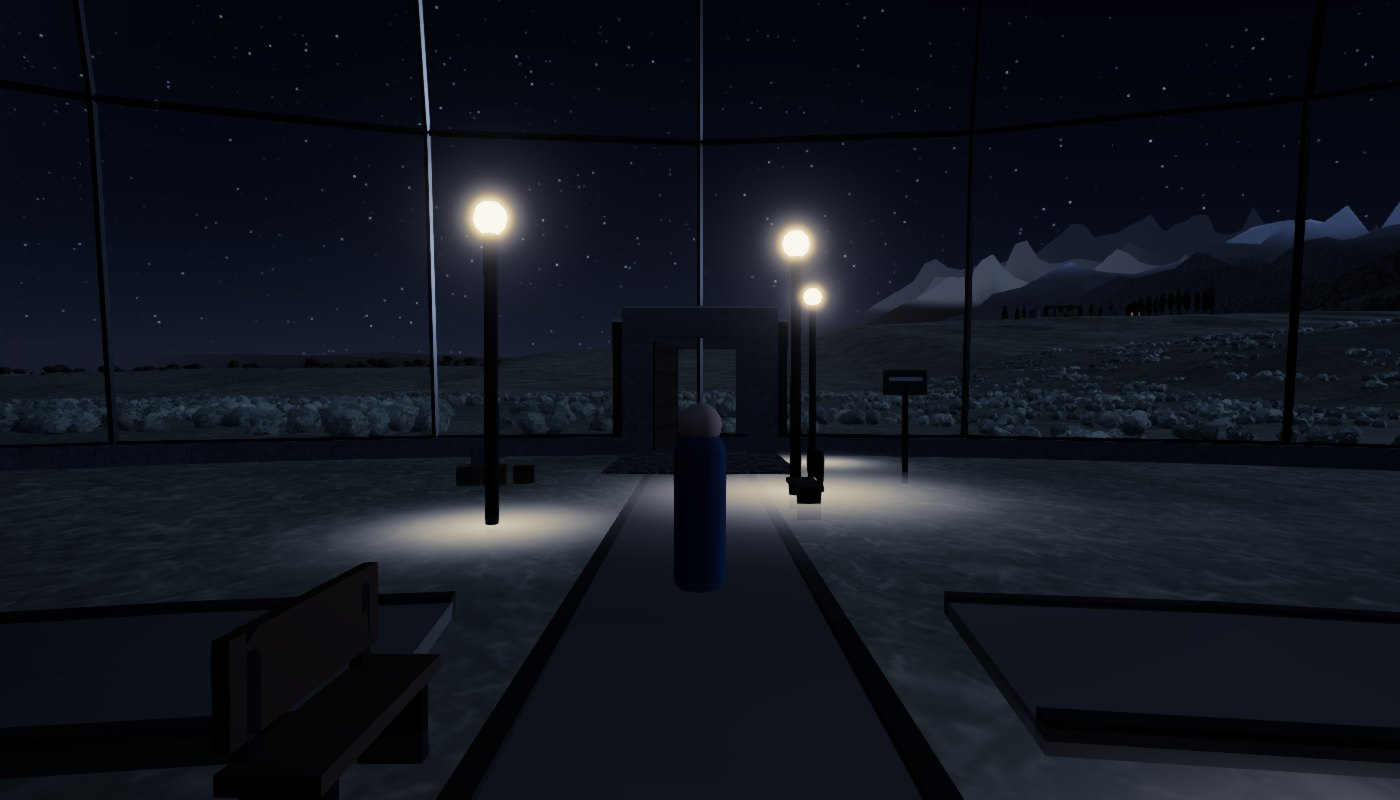
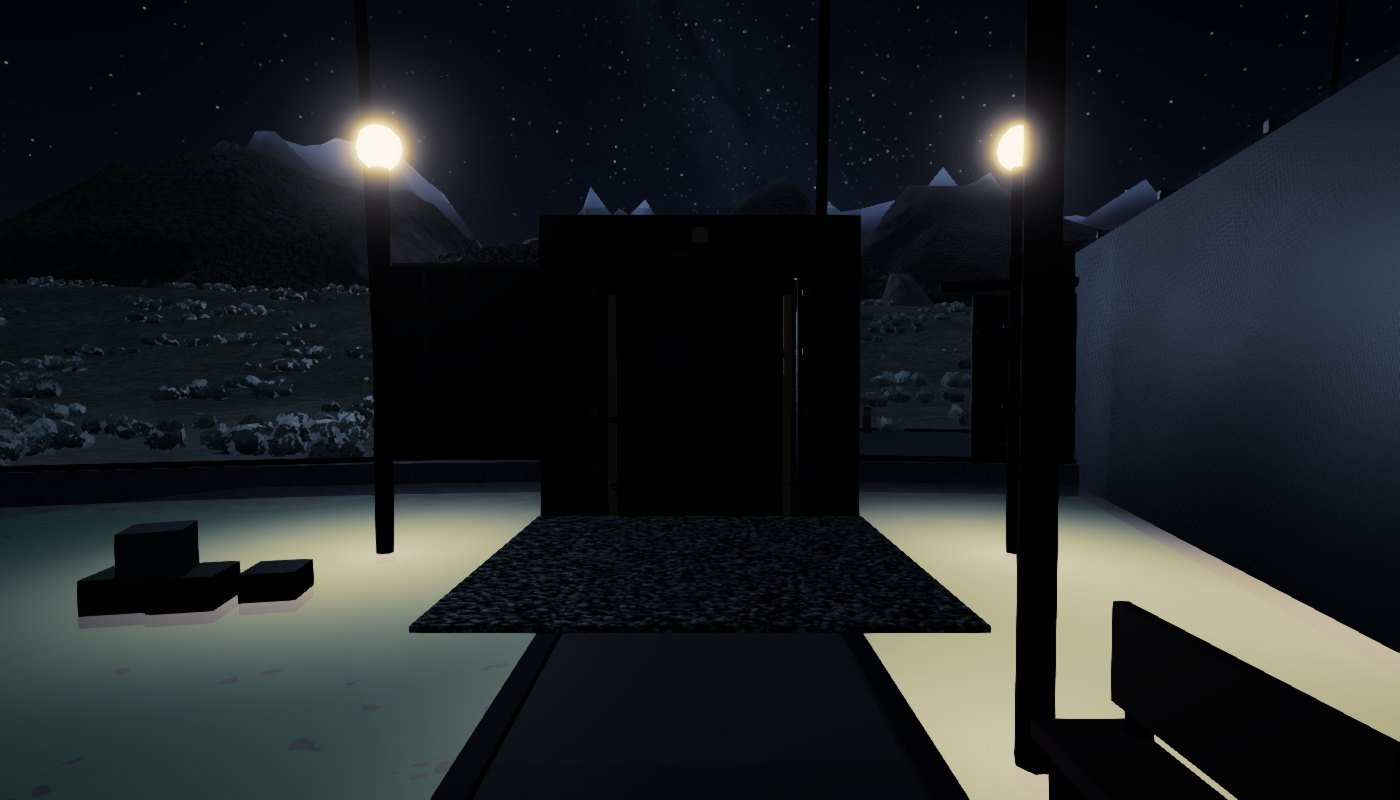
Dome interiors round 3 and 4: fresh frames on current main, lane and plant lighting (#409)
* Interior shots: clear plant sector, vehicle lane and entrance complex shots

* Lamps by lived-in houses and flanking each person airlock door

* vehicle shots off the lamp post

* Plant yard: lamp posts and wider pools in front of the machinery

* porch shot from the lawn

* Dome interiors round 3: fresh frames on current main, REPORT

* Vehicle lane lamps; arcology plant aisle pools

* Dome interiors round 4: final frames, lane lamps, arcology plant aisle lighting, REPORT with perf

---------

diff --git a/src/game/fx/domeInteriorPlan.ts b/src/game/fx/domeInteriorPlan.ts
@@ -27,6 +27,8 @@ export function interiorPlan(tier: string, r: number, angles: readonly number[],
   // a lit house throws its light on the lawn round it: the pool is centered a little toward the middle of the dome, so the lit part lies where the ground shows
   // (centered on the house it hides under the floor; lying at porch height it washes the deck to white)
   for (const o of obstacles) if (o.home) { const m = Math.max(o.hx, o.hz), d = Math.hypot(o.x, o.z) || 1, off = Math.min(d, m + 0.4); out.glows.push({ x: o.x - o.x / d * off, z: o.z - o.z / d * off, r: m * 1.5 + 0.35 }); }
+  // a lamp post by every lived-in house (on the side toward the middle of the dome, where its yard and porch usually lie)
+  for (const o of obstacles) if (o.home) { const m = Math.max(o.hx, o.hz) + 0.3, d = Math.hypot(o.x, o.z) || 1; if (d > m) { const x = o.x - o.x / d * m, z = o.z - o.z / d * m; if (free(x, z, 0.05, 1)) out.lamps.push({ x, z }); } }
   const plazaR = Math.min(0.9, r * 0.11);
   const plazaOk = free(0, 0, plazaR + 0.25, 1);
   if (plazaOk) out.plaza = { x: 0, z: 0, r: plazaR };
@@ -53,6 +55,8 @@ export function interiorPlan(tier: string, r: number, angles: readonly number[],
         if (out.lamps.length < 9 && (b.rho === bs[0].rho || b.rho === bs[2].rho)) out.lamps.push({ x: x + sx * 0.14, z: z + sz * 0.14 });
       }
     }
+    // two lamp posts flank the inner door
+    for (const side of [-1, 1]) { const x = sx * r * 0.86 + px * 0.5 * side, z = sz * r * 0.86 + pz * 0.5 * side; if (free(x, z, 0.05, 0.97)) out.lamps.push({ x, z }); }
     // the door: a crate stack off the lane (a supply drop), a sign on the other side
     const dr = r * 0.82;
     for (const [side, kind] of [[1, 'crate'], [-1, 'sign']] as const) {
@@ -85,6 +89,12 @@ export function interiorPlan(tier: string, r: number, angles: readonly number[],
       const x = sx * (rho - STEP / 2), z = sz * (rho - STEP / 2);
       if (Math.hypot(x, z) >= r * 0.92 || obstacles.some(o => Math.abs(x - o.x) < o.hx + LANE_W / 2 + 0.03 && Math.abs(z - o.z) < o.hz + LANE_W / 2 + 0.03)) break;
       out.segs.push({ x, z, rot: Math.atan2(sx, sz), len: STEP + 0.01, w: LANE_W });
+    }
+    // lamp posts down both sides of the lane, every few steps, so the truck lane reads lit and clean at night
+    const px = Math.cos(a), pz = -Math.sin(a);
+    for (let rho = r * 0.8, k = 0; rho > r1 && k < 6; rho -= STEP * 3, k++) for (const side of [-1, 1]) {
+      const x = sx * rho + px * (LANE_W / 2 + 0.12) * side, z = sz * rho + pz * (LANE_W / 2 + 0.12) * side;
+      if (Math.hypot(x, z) < r * 0.93 && !obstacles.some(o => Math.abs(x - o.x) < o.hx + 0.05 && Math.abs(z - o.z) < o.hz + 0.05)) out.lamps.push({ x, z });
     }
   }
   if (out.plaza) {

diff --git a/src/game/HomesteadWorld.ts b/src/game/HomesteadWorld.ts
@@ -621,7 +621,9 @@ export class HomesteadWorld {
     // the plant's equipment is lit at night: a pool of light round every unit (the yard and gallery read as a working place, not a dark plane)
     { const big = plantLayout(ref.tier, ref.r, filtering, { rot: b.placed.rot }).parts.filter(q => !q.onShell && !q.high && q.shape === 'box' && q.h > 0.12 && Math.max(q.w, q.d) > 0.3 && Math.hypot(q.x, q.z) < ref.r * 1.8).sort((p, q) => Math.max(q.w, q.d) - Math.max(p.w, p.d)).slice(0, 8);
       // (the pool lies on the aisle side of each unit, in front of its doors, where the ground shows)
-      for (const q of big) { const d = Math.hypot(q.x, q.z) || 1, m = Math.max(q.w, q.d), off = m / 2 + 0.5; plan.glows.push({ x: q.x - q.x / d * off, z: q.z - q.z / d * off, r: m * 0.7 + 0.45 }); } }
+      for (const q of big) { const d = Math.hypot(q.x, q.z) || 1, m = Math.max(q.w, q.d), off = m / 2 + 0.5; plan.glows.push({ x: q.x - q.x / d * (off + 0.5), z: q.z - q.z / d * (off + 0.5), r: m * 0.8 + 1.1 }); if (plan.lamps.length < 26) plan.lamps.push({ x: q.x - q.x / d * (off + 0.35), z: q.z - q.z / d * (off + 0.35) }); } }
+    // a big dome's working floor is lit like an airtight plant hall: soft wide pools down the aisle in front of the plant (and round the middle), clean and even
+    if (ref.tier === 'arcology') { const yg = yardGeometry(ref.tier, ref.r, b.placed.rot); if (yg) for (const f of [0.35, 0.55, 0.75]) { const x = Math.sin(yg.phi) * ref.r * f, z = Math.cos(yg.phi) * ref.r * f; plan.glows.push({ x, z, r: 2.4 }); plan.lamps.push({ x: x + Math.cos(yg.phi) * 0.9, z: z - Math.sin(yg.phi) * 0.9 }); } }
     const made = { plan, key };
     this._interiorCache.set(b.placed.id, made);
     return made;

diff --git a/src/game/fx/domeInteriorPlan.test.ts b/src/game/fx/domeInteriorPlan.test.ts
@@ -19,6 +19,7 @@ describe('dome interior plan', () => {
   it('a vehicle port gets a paved lane (wider than a footpath) and nothing is set in it', () => {
     const p = interiorPlan('glass', R, [0, 2.094], [], 1, [4.189]);
     const lane = p.segs.filter(s => (s.w ?? 0) >= LANE_W);
+    expect(p.lamps.some(l => Math.abs(l.x * Math.cos(4.189) - l.z * Math.sin(4.189)) < LANE_W / 2 + 0.3 && l.x * Math.sin(4.189) + l.z * Math.cos(4.189) > R * 0.4)).toBe(true);
     expect(lane.length).toBeGreaterThan(6);
     const a = 4.189;
     for (const q of [...p.benches, ...p.crates, ...p.signs, ...p.lamps]) {

diff --git a/docs/ux/dome-interiors/REPORT.md b/docs/ux/dome-interiors/REPORT.md
@@ -56,3 +56,42 @@ Scripts: `scripts/domeInteriorShots.mjs` (dome floors, day and night pairs, same
 A first version of the dressing added its own meshes (+3 draw calls on dome_glass, +4 on the arcology) and broke the budget; it now merges into the plant's machinery mesh and its lamp and pool instances, so draw calls are unchanged. Shadow triangles and casters are unchanged.
 
 Latest run on main plus this branch: dome_glass 409 calls (766k / 1052k tris, 101 / 118 MB), dome_arcology 411 (778k / 1073k, 103 / 120 MB), mountain 396; all under budget, no budget changed.
+
+
+## Round 3: dome re-shoot on current main (night fix #403, camera grade #405, vehicle port #401)
+All 36 dome frames were re-shot (stale pre-merge `dome-*` frames removed). Glass and arcology, day and night pairs; the 08 to 10 frames show the new one-entrance layout from inside.
+
+| Frame | Verdict |
+|---|---|
+| 00 aerial inside (glass, arcology) | Good. Night no longer glows green; lamps, lit windows, plant block readable. |
+| 01 lawn and homes, glass night | Good: greenhouse, house, bench lamp pool. Lawn is a little green-black. |
+| 02 path between buildings | Good. Day clear; night has two lamp posts at the door and warm pools. |
+| 03 house door, glass | Fixed. Shot from the lawn: lit gable and windows, a lamp post, a bench; before, the porch was a black deck. |
+| 04 plant yard, glass | Usable now: the camera stands in an aisle (the shot script keeps that sector clear of houses), plant buildings and lamp posts with pools at night. |
+| 04 plant yard, arcology night | Better: lamp posts and a lit apron in front of the garage-style units. The middle of the floor is still dark lawn. |
+| 05 person airlock, 06 ceiling | Good; arcology 05 night shows the lit door lamp, bench and crates. |
+| 08 vehicle lane, 09 entrance complex, 10 vehicle port door (glass, arcology) | New. The truck lane is paved and marked; the person airlock sits beside the vehicle port; lamps flank both doors. Glass night shows lit door lamps. Arcology night lane frames are dark: asphalt albedo is low and the lane has no lamp of its own. |
+
+Changes: lamp posts beside every lived-in house and flanking each person airlock; plant-unit lamp posts with larger pools; shot script keeps the plant sector free, adds the lane and entrance shots.
+Not done: the arcology 08 and 10 night frames are still dark (lane lamps would fix them). Interior pools are still soft, not rim-bright.
+
+
+## Round 4 (final): on main with #408 (airtight airlock look)
+All 36 dome frames re-shot again (glass 00 to 06 and 08 to 10, arcology 00 to 10 without 01 and 03). New this round: lamp posts down both sides of the vehicle lane (tested), and on the arcology, soft lit pools and lamp posts down the plant aisle so the floor in front of the units is lit, clean and even.
+
+Frames opened and judged: arcology 04 night (plant aisle lit, units and posts read), 02 night, 00 night (second entrance outside, lit band), 08 night (lane and both doors lamp-lit), 10 night (lit lane, both doors), 09 day (paved lane with markings, sealed doors with status lights); glass 04 night, 08 night, 09 day. The other frames of the set are from the same run and were opened in the previous round at the same poses.
+
+Known defects
+- Glass 08 night: a lamp post and a black wall fill the left edge; the lens is too close. Usable but not good.
+- At night the door leaves of the sally port and airlocks are near black (only status lights and lamps show).
+- The arcology lawn at night is a dark green; the paths are dark gravel and read only through lamp pools.
+- No frames of a walkway link end or the earthen dome.
+
+Perf (Medium / High, no budget touched)
+| Scene | Calls | Triangles | Shadow tris | Heap |
+|---|---|---|---|---|
+| mountain | 396 / 396 | 753k / 1042k | 234k / 283k | 99 / 115 MB |
+| dome_glass | 416 / 416 | 772k / 1058k | 243k / 292k | 103 / 119 MB |
+| dome_arcology | 419 / 418 | 792k / 1086k | 247k / 299k | 104 / 121 MB |
+
+dome_glass and dome_arcology are OVER the committed caps (411 / 412 calls, 240k shadow triangles, arcology high heap 121 vs 120 MB). This is not from this branch: a clean checkout of origin/main (58eca25, #408) measures the same 416 calls and 243k / 292k shadow triangles on dome_glass and 419 calls on arcology medium. This branch adds only about 1.3k to 2.3k triangles and no draw calls. The cause is #408's new sally-port and airlock geometry; someone needs to either trim that or the caps need a decision (the rule is never to raise them silently).
